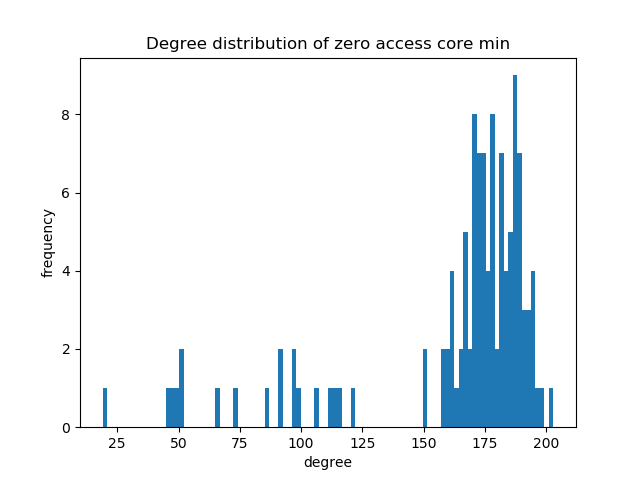
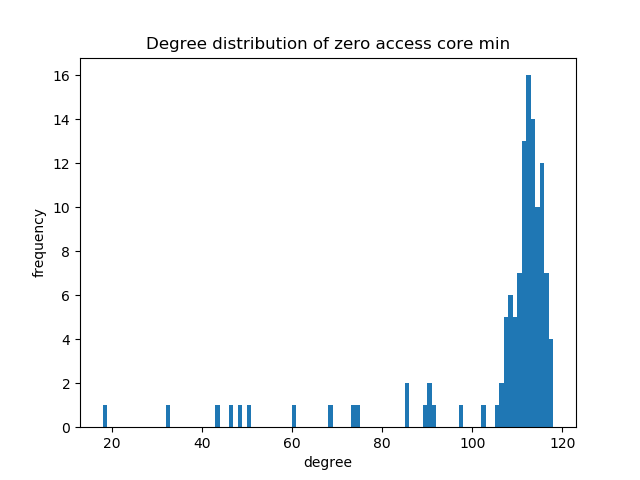
reducing multi-graphs to single-graphs and re-calculated

diff --git a/main.py b/main.py
@@ -23,6 +23,7 @@ def analyze_net(g: nx.Graph, name: str):
     # https://networkx.github.io/documentation/stable/reference/classes/generated/networkx.Graph.to_undirected.html
     # undirected graphs are better analyzable
     g = nx.to_undirected(g)
+    g = nx.Graph(g)
 
     # https://networkx.github.io/documentation/stable/reference/algorithms/generated/networkx.algorithms.components.is_connected.html
     print(f"Graph is connected: {str(nx.is_connected(g))}")
